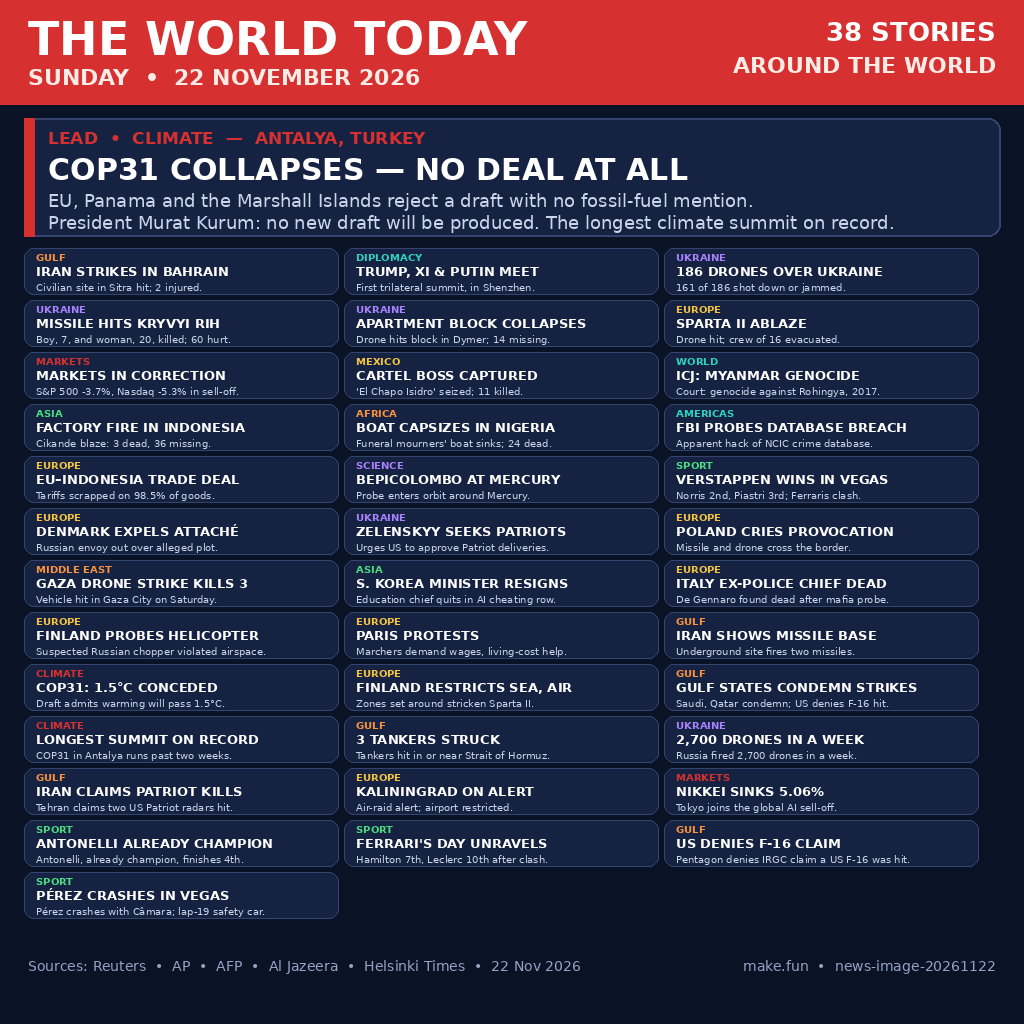
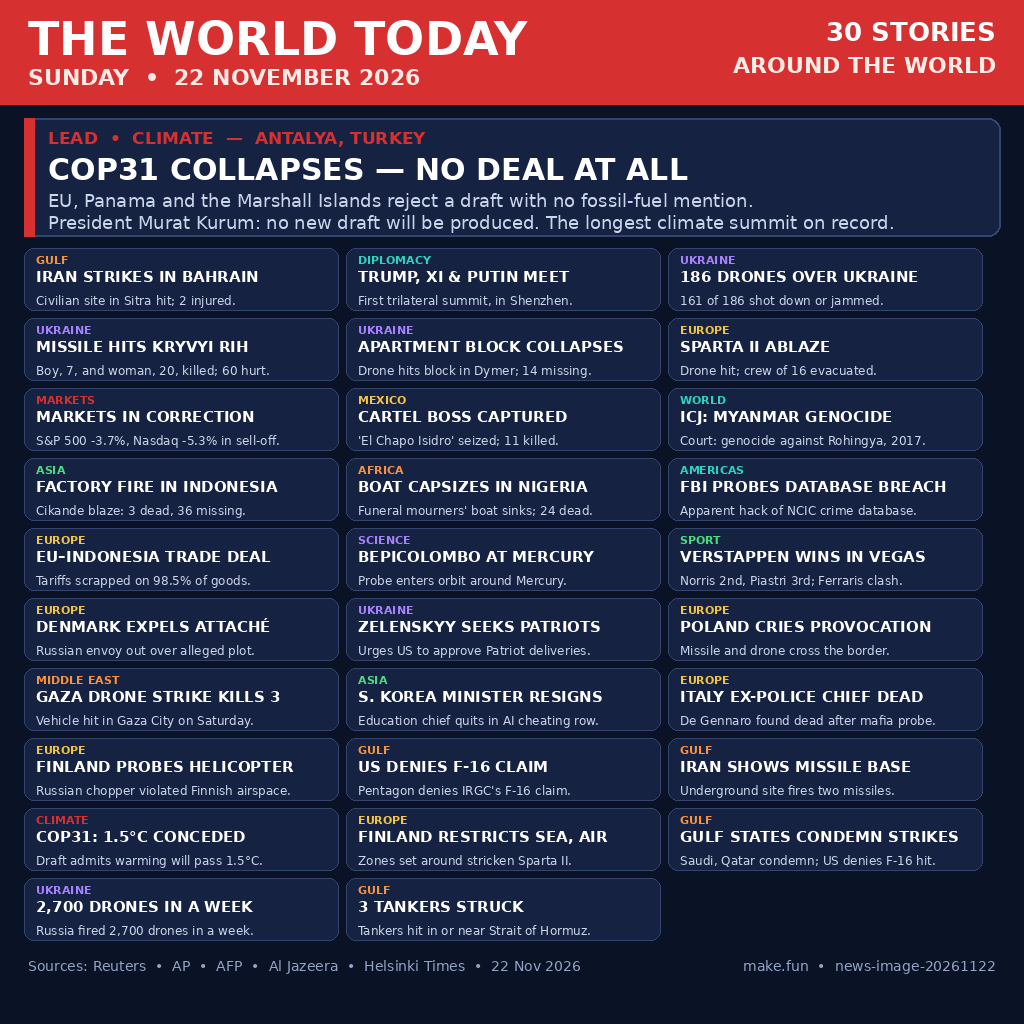
V6: 30-story digest, strongest stories

Changed region(s): [[0.0, 0.25, 0.9688, 0.9375]]

diff --git a/README.md b/README.md
@@ -4,7 +4,7 @@
 [![rank](https://make.fun/badge/news-image-20261122/rendsstwn/makefun-news-image-20261122/rank.svg)](https://make.fun/bounty/news-image-20261122/leaderboard?utm_source=github&utm_medium=readme&utm_campaign=news-image-20261122)
 [![reward](https://make.fun/badge/news-image-20261122/rendsstwn/makefun-news-image-20261122/reward.svg)](https://make.fun/bounty/news-image-20261122?utm_source=github&utm_medium=readme&utm_campaign=news-image-20261122)
 
-Sum up the world's news of Sunday 22 November 2026 in one image. The entry program writes a 1024x1024 PNG digest of 38 stories from that day: COP31 collapses in Antalya, Iran strikes in Bahrain and tankers near the Strait of Hormuz, Trump, Xi and Putin meet in Shenzhen, 186 drones over Ukraine, a missile hits Kryvyi Rih, the Sparta II ablaze in the Gulf of Finland, markets in correction, a cartel boss captured in Mexico, Verstappen wins in Las Vegas, and 29 more stories from around the world. Sources: Reuters, AP, AFP, Al Jazeera, Helsinki Times, 22 Nov 2026.
+Sum up the world's news of Sunday 22 November 2026 in one image. The entry program writes a 1024x1024 PNG digest of 30 stories from that day: COP31 collapses in Antalya, Iran strikes in Bahrain and tankers near the Strait of Hormuz, Trump, Xi and Putin meet in Shenzhen, 186 drones over Ukraine, a missile hits Kryvyi Rih, the Sparta II ablaze in the Gulf of Finland, markets in correction, a cartel boss captured in Mexico, Verstappen wins in Las Vegas, and 21 more stories from around the world. Sources: Reuters, AP, AFP, Al Jazeera, Helsinki Times, 22 Nov 2026.
 
 ## Run it
 
